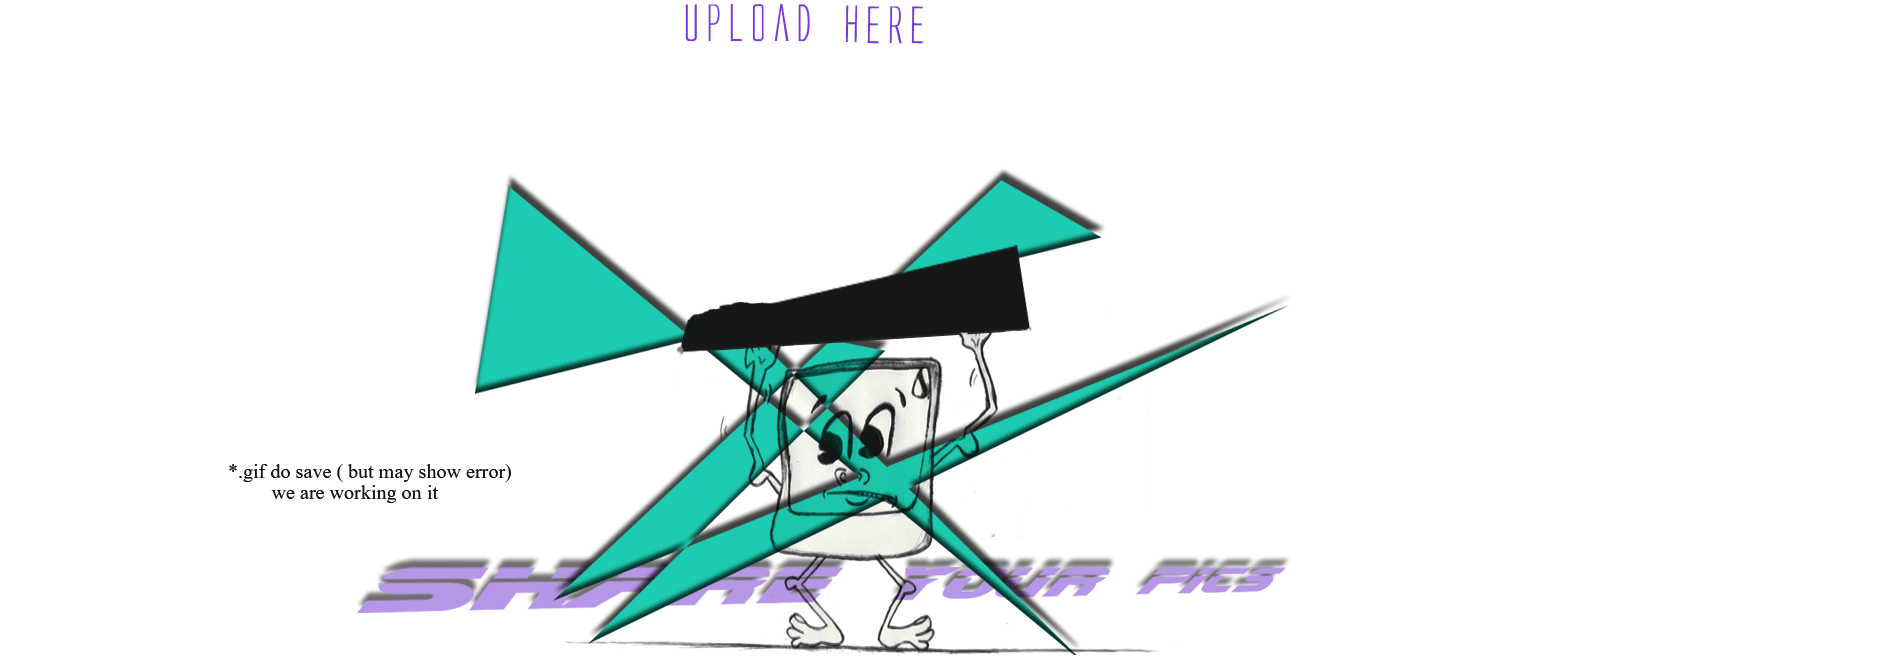
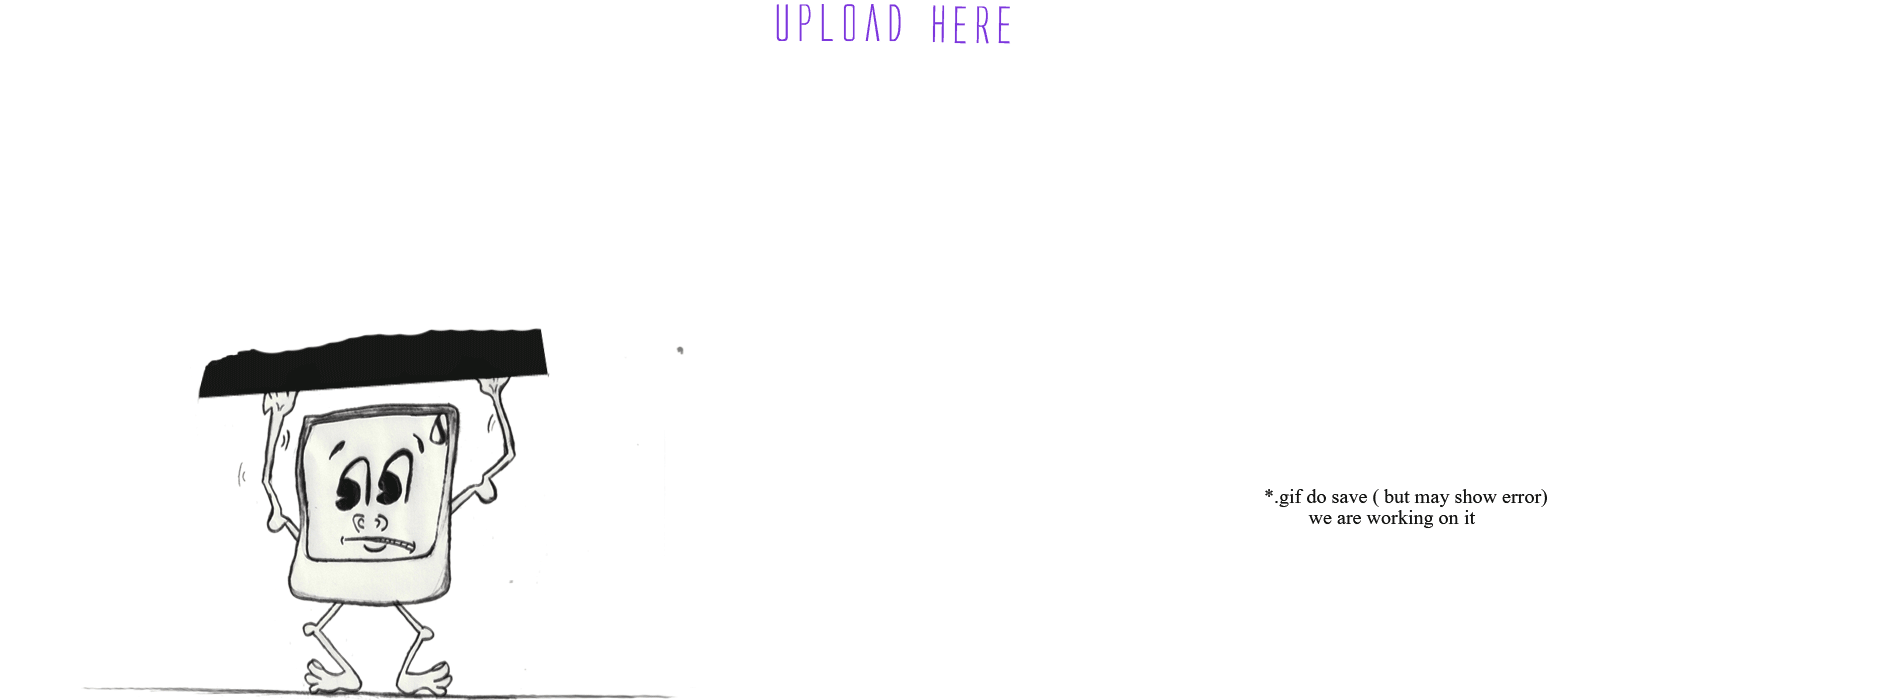
hope for more

diff --git a/app/assets/stylesheets/custom.css.scss b/app/assets/stylesheets/custom.css.scss
@@ -270,12 +270,21 @@ a:hover{
     margin: 0px 0px 10px 0px;
      
 }
+.inlinefrom{
+
+	display: inline-block;
+}
+.inlinefrom2{
+	display: inline-block;
+	position: relative;
+	margin-top: -10px;
+}
 .home-up{
-	width: 500px;
+	width: 630px;
 	background-color: #39B8A9;
 	padding: 10px 10px 5px 10px;
 	
-	margin: 40px 0px 0px 570px;
+	margin: 40px 0px 0px 470px;
 	border: 5px solid #161817;
 	-moz-box-shadow: 10px -3px 5px #BEC1C2;
     -webkit-box-shadow: 10px -3px 5px #BEC1C2;
@@ -326,9 +335,9 @@ a:hover{
 
 }
 .home-category{
-	margin: 320px 0px 0px 18%;
+	margin: 505px 0px 0px 18%;
 	background-color: #C7C7C7;
-	height: 370px;
+	height: 440px;
 
 	
 }
@@ -368,9 +377,15 @@ a:hover{
 	display: inline-table;
 	margin: 0px 0px 0px 0px;
 }
+.mainbox{
+	margin: 0px 140px auto;
+}
+.mainbox2{
+	clear: both;
+}
 .ad-home{
 	margin: 40px 0px 0px 70px;
-	border: 2px solid #999;
+	border: 2px solid #181818;
 	height: 280px;
 	width: 336px;
 	float: left;
@@ -439,7 +454,7 @@ a:hover{
 	width: 100%;
 	height: 135px;
 	background-color: #39B8A9;
-	border-top: 2px solid black;
+	
 }
 .ad-upload{
 	
@@ -468,8 +483,8 @@ a:hover{
 	border-top-left-radius: 10px;
 }
 .top-share{
-	margin: 0px 0px 0px 0px;
-	float: right;
+	margin: 15px 0px 0px 400px;
+	float: left;
 	height: 200px;
 	width: 312px;
 	background-color: #39B8A9;
@@ -1037,4 +1052,12 @@ box-shadow: 0 1px 3px rgba(0, 0, 0, 0.25), inset 0 -1px 0 rgba(0, 0, 0, 0.1);
 }
 .push-foot{
 	height: 300px;
+}
+.index-adc{
+	margin-right: 40px;
+	float: left;
+    border: 2px solid black;
+	margin-top: 30px;
+	width: 336px;
+	height: 280px;
 }

diff --git a/app/assets/stylesheets/categories.css.scss b/app/assets/stylesheets/categories.css.scss
@@ -240,6 +240,6 @@ Supports Thumbs: true
 }
 .nivoSlider{
 	float: right;
-	height: 400px;
-	width: 600px
+	height: 450px;
+	width: 650px
 }

diff --git a/app/controllers/categories_controller.rb b/app/controllers/categories_controller.rb
@@ -1,7 +1,6 @@
 class CategoriesController < ApplicationController
 	def index
-	@uploads_slideshow = Upload.order("RANDOM()").where("private = ?", false).limit(4)
-	@uploads = Upload.order("created_at DESC").where("private = ?", false).limit(8)
+	@uploads = Upload.order("created_at DESC").where("private = ?", false).limit(16)
 	@upload_top = Upload.order("RANDOM()").limit(8)
 	@categories = Category.order(:name)
 	respond_to do |format|

diff --git a/app/controllers/pages_controller.rb b/app/controllers/pages_controller.rb
@@ -1,6 +1,7 @@
 class PagesController < ApplicationController
 	
 	def home
+	@uploads_slideshow = Upload.order("RANDOM()").where("private = ?", false).limit(4)
 	@uploads = Upload.order("created_at DESC").where("private = ?", false).limit(12)
 	@upload = Upload.new
 	end
